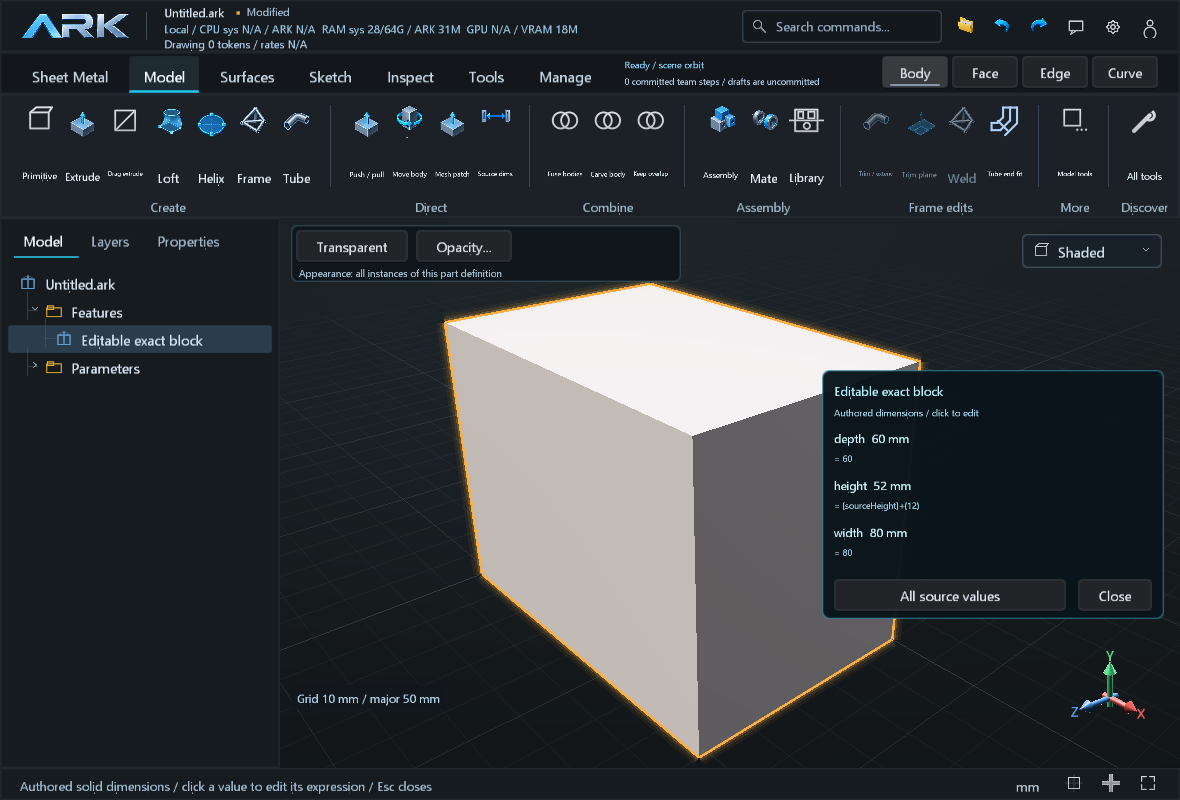
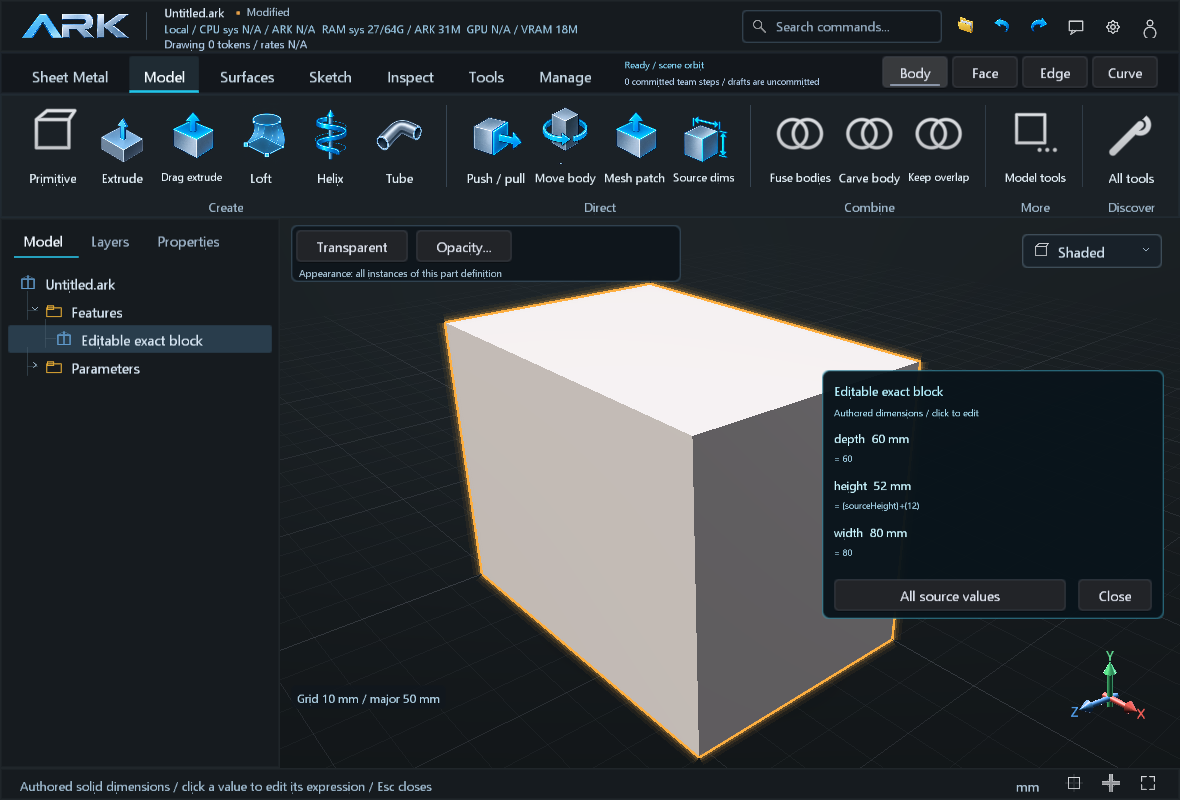
020B: resolve drag action identity and verify integrated authoring

diff --git a/src/view/viewer.cpp b/src/view/viewer.cpp
@@ -517,7 +517,7 @@ static arkjson::Value g_physicalSettings;
 static bool decodeCanvasFile(const std::wstring&,std::vector<unsigned char>&,unsigned&,unsigned&);
 #include "action_icons.inl"
 static int atlasIcon(int action){switch(action){
-    case 650:return 53;case 652:return 52;case 651:return 26;case 653:case 654:return 33;case 655:return 51;case 656:return 40;case 657:case 733:return 14;case 658:return 42;case 659:return 51;case 710:return 48;case 750:return 55;case 752:return 4;case 754:return 22;case 755:return 57;case 730:case 731:return 49;case 732:return 50;
+    case 650:return 53;case 652:case 687:return 52;case 651:return 26;case 653:case 654:return 33;case 655:return 51;case 656:return 40;case 657:case 733:return 14;case 658:return 42;case 659:return 51;case 710:return 48;case 750:return 55;case 752:return 4;case 754:return 22;case 755:return 57;case 730:case 731:return 49;case 732:return 50;
     case 570:case 584:return 33; // Existing edit-curve pencil.
     case 571:return 0;case 572:return 16;case 573:return 1;case 574:case 575:return 32;
     case 590:case 597:return 8;case 585:case 586:case 588:case 592:case 593:case 595:case 576:return 24;case 594:return 45;case 596:return 14;case 591:return 24;case 587:return 45;case 577:return 45;case 578:return 14;
@@ -4590,10 +4590,11 @@ static void drawFrame(HDC hdc){
     struct RibbonAction{const char* title;int id;};struct RibbonGroup{const char* title;std::vector<RibbonAction> actions;};std::vector<RibbonGroup> groups;
     if(g_toolModule==0)groups={{"Create",{{"Base",120},{"Flange",121},{"Hem",394},{"Stamp",397},{"Opening",124}}},{"Modify",{{"Edit",325},{"Jog",494},{"Sketch bend",495},{"Unfold",320},{"Refold",321}}},{"Pattern",{{"Pattern",468},{"Mirror",108}}},{"Output",{{"Export",213}}}};
     else if(g_toolModule==1&&g_directAuthoring.active)groups={{"Direct edit",{{"Push / pull",650},{"Move body",651},{"Mesh patch",652},{"Mesh vertex",653},{"Mesh edge",654},{"Value",655},{"Apply",656},{"Cancel",657}}},{"Source",{{"Dimensions",659},{"Sample mesh",754}}},{"Select",{{"Body",170},{"Face",171},{"Tangent patch",658}}},{"Combine",{{"Fuse bodies",8},{"Carve body",9},{"Keep overlap",10}}}};
-    else if(g_toolModule==1)groups={{"Create",{{"Primitive",100},{"Extrude",101},{"Drag extrude",660},{"Loft",76},{"Helix",750},{"Frame",210},{"Tube",26}}},{"Direct",{{"Push / pull",650},{"Move body",651},{"Mesh patch",652},{"Source dims",659}}},{"Combine",{{"Fuse bodies",8},{"Carve body",9},{"Keep overlap",10}}},{"Assembly",{{"Assembly",27},{"Mate",94},{"Library",484}}},{"Frame edits",{{"Trim / extend",496},{"Trim plane",497},{"Weld",498},{"Tube end fit",549}}},{"More",{{"Model tools",456}}}};
+    else if(g_toolModule==1&&W<1280)groups={{"Create",{{"Primitive",100},{"Extrude",101},{"Drag extrude",687},{"Loft",76},{"Helix",750},{"Tube",26}}},{"Direct",{{"Push / pull",650},{"Move body",651},{"Mesh patch",652},{"Source dims",659}}},{"Combine",{{"Fuse bodies",8},{"Carve body",9},{"Keep overlap",10}}},{"More",{{"Model tools",456}}}};
+    else if(g_toolModule==1)groups={{"Create",{{"Primitive",100},{"Extrude",101},{"Drag extrude",687},{"Loft",76},{"Helix",750},{"Frame",210},{"Tube",26}}},{"Direct",{{"Push / pull",650},{"Move body",651},{"Mesh patch",652},{"Source dims",659}}},{"Combine",{{"Fuse bodies",8},{"Carve body",9},{"Keep overlap",10}}},{"Assembly",{{"Assembly",27},{"Mate",94},{"Library",484}}},{"Frame edits",{{"Trim / extend",496},{"Trim plane",497},{"Weld",498},{"Tube end fit",549}}},{"More",{{"Model tools",456}}}};
     else if(g_toolModule==2&&g_sketchEditing.active)groups={{"Edit in view",{{"Exit sketch",611},{"Coordinates",70},{"Dimensions",591},{"Source params",577},{"Constraint",73},{"Normal view",71},{"Grid",579}}},{"Sketch",{{"Draw sketch",570},{"Undo",18},{"Redo",19}}}};
-    else if(g_toolModule==2&&g_sketchDrawing.active)groups={{"Draw in view",{{"Line",571},{"Polyline",572},{"Rectangle",573},{"Circle",574},{"Arc 3 pt",575},{"Dimensions",576},{"Grid",579},{"Exit sketch",578}}},{"Coordinate forms",{{"Line form",543},{"Arc form",544},{"Tangent arc",545},{"Rectangle",61},{"Circle",62},{"Spline",63}}},{"Modify",{{"Project 2D",536},{"Include 3D",537},{"Edit curve",70},{"Constraint",73},{"Plane",60},{"Source params",577}}},{"Build",{{"Extrude",65},{"Drag extrude",660},{"Cut",66}}}};
-    else if(g_toolModule==2)groups={{"Interactive",{{"Draw sketch",570},{"Edit sketch",610}}},{"Draw 2D",{{"Line",543},{"Arc 3 pt",544},{"Tangent arc",545},{"Rectangle",61},{"Circle",62},{"Spline",63}}},{"Draw 3D",{{"Arc 3D",547},{"Tangent 3D",548},{"3D curve",538}}},{"Modify",{{"Project 2D",536},{"Include 3D",537},{"Edit curve",70},{"Constraint",73},{"Plane",60}}},{"Build",{{"Extrude",65},{"Drag extrude",660},{"Cut",66}}}};
+    else if(g_toolModule==2&&g_sketchDrawing.active)groups={{"Draw in view",{{"Line",571},{"Polyline",572},{"Rectangle",573},{"Circle",574},{"Arc 3 pt",575},{"Dimensions",576},{"Grid",579},{"Exit sketch",578}}},{"Coordinate forms",{{"Line form",543},{"Arc form",544},{"Tangent arc",545},{"Rectangle",61},{"Circle",62},{"Spline",63}}},{"Modify",{{"Project 2D",536},{"Include 3D",537},{"Edit curve",70},{"Constraint",73},{"Plane",60},{"Source params",577}}},{"Build",{{"Extrude",65},{"Drag extrude",687},{"Cut",66}}}};
+    else if(g_toolModule==2)groups={{"Interactive",{{"Draw sketch",570},{"Edit sketch",610}}},{"Draw 2D",{{"Line",543},{"Arc 3 pt",544},{"Tangent arc",545},{"Rectangle",61},{"Circle",62},{"Spline",63}}},{"Draw 3D",{{"Arc 3D",547},{"Tangent 3D",548},{"3D curve",538}}},{"Modify",{{"Project 2D",536},{"Include 3D",537},{"Edit curve",70},{"Constraint",73},{"Plane",60}}},{"Build",{{"Extrude",65},{"Drag extrude",687},{"Cut",66}}}};
     else if(g_toolModule==3)groups={{"Measure",{{"Measure 2D",585},{"Measure 3D",586},{"Units",587}}},{"Selection",{{"Body",170},{"Face",171},{"Tangent faces",658},{"Edge",172},{"Curve",173}}},{"Inspect",{{"Collision",755},{"BOM",590},{"Properties",401},{"Mass / CG",188},{"Material",187}}},{"Display",{{"Graphics",56},{"Fit",20}}}};
     else if(g_toolModule==4)groups={{"Engineering",{{"Model tools",456},{"Physics",188},{"Loads",216},{"Electronics",211},{"Routing",212},{"Library",484}}},{"Agents",{{"Assistant",400},{"Connect",58},{"Providers",357},{"Tools",457}}}};
     else if(g_toolModule==6)groups={{"Create",{{"Extrude",151},{"Revolve",152},{"Sweep",150},{"Loft",76},{"Fill",77},{"NURBS",78}}},{"Modify",{{"Loft controls",752},{"Extract face",491},{"Trim plane",492},{"Offset",153},{"Glue surfaces",154},{"Thicken",79}}}};

diff --git a/docs/ROADMAP.md b/docs/ROADMAP.md
@@ -66,9 +66,9 @@ Goal: create and revise a complete product with clear, reliable interactions.
 
 | ID | Milestone | Status | Acceptance still governing the work |
 |---|---|---|---|
-| B.01 | Readable navigation and editing | Parcial | Stable cube/axes, free orbit, selection/Spotlight, shortcuts and DPI; no clipped controls at supported resolutions. Measurement and display units have [013B evidence](iterations/013B.md); BOM layout has [015B evidence](iterations/015B.md). [017B scoped evidence](iterations/017B.md). [018B editable authoring and coordination](iterations/018B.md). [019B native/mesh pointer selection, hover and visual authoring](iterations/019B.md). [Exact extrusion gestures and source dimensions](VIEWPORT_DIMENSIONS.md). |
-| B.02 | Everyday sketches and feature history | Parcial | Actionable constraint diagnostics, valid reorder, suppress/rollback and visible dependencies; rejection leaves the document intact. Arcs/snaps/expressions have scoped 005B/008D evidence. [017B scoped evidence](iterations/017B.md). [018B editable authoring and coordination](iterations/018B.md). [019B visual and parametric authoring](iterations/019B.md). [Exact extrusion gestures and source dimensions](VIEWPORT_DIMENSIONS.md). |
-| B.03 | Advanced solids and surfaces | Parcial | Difficult loft/sweep/guide/patch/trim/thicken corpus, measured continuity and explicit repair; no mesh fallback concealing exact failures. [017B scoped evidence](iterations/017B.md). [018B editable authoring and coordination](iterations/018B.md). [019B visual and parametric authoring](iterations/019B.md). |
+| B.01 | Readable navigation and editing | Parcial | Stable cube/axes, free orbit, selection/Spotlight, shortcuts and DPI; no clipped controls at supported resolutions. Measurement and display units have [013B evidence](iterations/013B.md); BOM layout has [015B evidence](iterations/015B.md). [017B scoped evidence](iterations/017B.md). [018B editable authoring and coordination](iterations/018B.md). [019B native/mesh pointer selection, hover and visual authoring](iterations/019B.md). [020B exact extrusion gestures and source dimensions](iterations/020B.md). |
+| B.02 | Everyday sketches and feature history | Parcial | Actionable constraint diagnostics, valid reorder, suppress/rollback and visible dependencies; rejection leaves the document intact. Arcs/snaps/expressions have scoped 005B/008D evidence. [017B scoped evidence](iterations/017B.md). [018B editable authoring and coordination](iterations/018B.md). [019B visual and parametric authoring](iterations/019B.md). [020B exact extrusion gestures and source dimensions](iterations/020B.md). |
+| B.03 | Advanced solids and surfaces | Parcial | Difficult loft/sweep/guide/patch/trim/thicken corpus, measured continuity and explicit repair; no mesh fallback concealing exact failures. [017B scoped evidence](iterations/017B.md). [018B editable authoring and coordination](iterations/018B.md). [019B visual and parametric authoring](iterations/019B.md). [020B exact sketch extrusion](iterations/020B.md). |
 | B.04 | Large, configurable assemblies | Parcial | Subassemblies, reused instances, configurations, external references and selective loading; editing one definition updates all occurrences. Supported mechanisms are locally scoped. |
 | B.05 | Technical drawings and exchange | Parcial | Associative views, sections, dimensions/tolerances and BOM; readback measures loss in STEP/IGES/DXF/native exchange. Local BOM/JSON is implemented; associative drawing work remains planned. [BOM contract](BOM.md) [017B scoped evidence](iterations/017B.md). [018B editable authoring and coordination](iterations/018B.md). |
 
@@ -80,7 +80,7 @@ Goal: connect design choices to exact geometry and measured process evidence.
 |---|---|---|---|
 | C.01 | Industrial sheet workflows | Parcial | Exact STEP plus explicit inputs yields a canonical artifact or typed rejection; agreed corpus, refold/flat and material traceability. Local sheet support exists; external exchange depends on E.01/E.02. |
 | C.02 | Complete weldments | Parcial | Multi-member trim/extend, joints, preparation, beads and coherent cutlists; drawings and lengths derive from exact results. Scope/candidates/replay have [008D evidence](iterations/008D.md). |
-| C.03 | Process-specific DFM | Parcial | Agent-accessible ruleset 1 screens laser thickness/blank, evaluated bend radii, FDM envelope/settings, CNC stock/cutter declarations and exact declared weld-bead throats. Evidence, assumptions and typed recommendations remain distinct from qualification. [DFM contract and limits](DFM.md) |
+| C.03 | Process-specific DFM | Parcial | Agent-accessible ruleset 1 screens laser thickness/blank, evaluated bend radii, FDM envelope/settings, CNC stock/cutter declarations and exact declared weld-bead throats. Evidence, assumptions and typed recommendations remain distinct from qualification. [020B scoped evidence](iterations/020B.md) and [DFM contract](DFM.md). |
 | C.04 | Structural checks and motion | Parcial | Units/load cases, analytical comparisons, mesh convergence and an audited external solver. Supported analytical/kinematic previews exist; FEA, contact and fatigue require separate validation. [019B static collision evidence](iterations/019B.md); response dynamics remain unqualified. |
 | C.05 | Physical reference pilots | Planeado | Fabricate a sheet enclosure, welded frame and small assembly; measure deviation, fit, cost and time; feed observations back into design revisions. |
 
@@ -93,7 +93,7 @@ Goal: reach valid, useful designs with explainable quality, time and total cost.
 | D.01 | Quality/time/cost benchmark | Parcial | At least 30 versioned briefs, three repeats per initial configuration and blind human evaluation; cost per accepted design includes failures and coordination. Harness exists; 008D pilots were 0/9 and 4/9, 009B closed at 1/9. These results prove no savings. |
 | D.02 | Responsible engineer and adaptive team | Parcial | Compare Single/Focused/Parallel; give specialists concrete useful assignments and choose concurrency by measured benefit. No default turn/token budgets. Context, completion and feedback have scoped iteration evidence. [017B scoped evidence](iterations/017B.md). [018B editable authoring and coordination](iterations/018B.md). [019B visual and parametric authoring](iterations/019B.md). |
 | D.03 | Isolated part workspaces | Planeado | Piece-level branches with ownership/datums; transactional integration identifies geometric/revision conflicts without silent rebase. |
-| D.04 | Multimodal feedback and correction | Parcial | Shared author/reviewer diagnostics, revision-bound previews, repeated-error detection and intent-preserving correction. Real images, failure replay and transport projection exist within [008D](iterations/008D.md), [010D](iterations/010D.md) and [012D](iterations/012D.md) scopes. [017B scoped evidence](iterations/017B.md). [018B editable authoring and coordination](iterations/018B.md). [019B visual and parametric authoring](iterations/019B.md). |
+| D.04 | Multimodal feedback and correction | Parcial | Shared author/reviewer diagnostics, revision-bound previews, repeated-error detection and intent-preserving correction. Real images, failure replay and transport projection exist within [008D](iterations/008D.md), [010D](iterations/010D.md) and [012D](iterations/012D.md) scopes. [017B scoped evidence](iterations/017B.md). [018B editable authoring and coordination](iterations/018B.md). [019B visual and parametric authoring](iterations/019B.md). [020B source-owned dimensional feedback and DFM rules](iterations/020B.md). |
 | D.05 | Concept alternatives and reusable knowledge | Parcial | Compare alternatives against requirements, mass, process/cost and human preference using validated examples. A proposal must not be reported as a created part. |
 
 ## E — Industrial ecosystem

diff --git a/docs/iterations/020B.md b/docs/iterations/020B.md
@@ -1,0 +1,53 @@
+# 020B — direct dimensions and agent DFM
+
+Runtime `0.9.21`, principal phase B. The iteration addresses A.01, B.01,
+B.02, B.03, C.03 and D.04. These milestones remain **Parcial** beyond the
+bounded local checks below. The `.ark` document version is unchanged.
+
+## Human authoring
+
+**Drag extrude** turns a saved closed sketch into an isolated exact native
+candidate. Pointer movement updates its depth, release publishes one validated
+feature, Tab accepts an expression, and Esc leaves the document intact. The
+original extrusion `cap.end` can be pushed or pulled while preserving its
+source sketch and starting cap. Double-clicking a visible solid opens its
+authored scalar dimensions and expressions; selecting a row edits the source.
+The agent's `doc_apply` path uses the same parameters and driving sketch
+dimensions with an observed `expected_revision`.
+
+The gesture and overlay contract, screenshots from synthetic fixtures and
+scoped checks are in [viewport dimensions](../VIEWPORT_DIMENSIONS.md) and the
+[dimension verification record](../verification-direct-dimensions.json).
+Supported source families, dependency behavior and multi-feature workflows
+remain narrower than the complete B.01/B.02/B.03 acceptance criteria.
+
+## Process screening for agents
+
+`manufacturing_inspect` now returns `components[].dfm` with versioned rules,
+exact producer evidence where available, explicit caller assumptions and typed
+recommendations for laser, bend, FDM, CNC and weld planning. The report does
+not mutate a document or certify manufacture. Agents can use a recommendation
+to propose a revision-checked design or process change. The [DFM contract](../DFM.md)
+and [DFM verification record](../verification-dfm-2026-10-13.json) distinguish
+caller arithmetic, exact geometry comparisons and unresolved process evidence.
+C.03 remains **Parcial** pending actual machine, slicer/CAM, material and pilot
+evidence.
+
+## Interface assets
+
+The built-in ImageGen tool produced a fourth transparent 4×4 icon atlas for
+authoring and process concepts. Studio uses the new icons for Skeleton,
+image reference intents, source dimensions, direct extrusion, patterns, helix
+and collision, with matching visuals beside the Assistant image actions.
+The exact prompt, source file and alpha/hash record are in
+[the atlas prompt](../design/ark-authoring-atlas.prompt.txt). Process icons
+whose controls do not yet exist remain reserved and are not advertised as
+implemented tools. B.01/D.04 visual scope requires actual rendered inspection.
+
+## Evidence boundary
+
+Local MSVC/OCCT, portable core, Studio interaction and release identity results
+are recorded in [the combined verification record](../verification-020B.json).
+The record distinguishes branch-local checks from the integrated 020B head.
+No manufacturing qualification, cost reduction, external product adapter,
+deployment or general human-design-quality result follows from this iteration.

diff --git a/docs/README.md b/docs/README.md
@@ -9,7 +9,9 @@ current release claim. [release.json](../release.json) owns application identity
 
 | Guide | Read it when |
 |---|---|
-| [019B draft controls](AUTHORING_019B_TESTING.md) | You are testing image intents, optional dimensions, direct edits, Skeleton code and collision feedback |
+| [020B direct dimensions](VIEWPORT_DIMENSIONS.md) | You are dragging an exact sketch extrusion or editing source dimensions on a solid |
+| [020B agent DFM](DFM.md) | You are screening a declared process and need versioned rule evidence and limitations |
+| [019B authoring controls](AUTHORING_019B_TESTING.md) | You are testing image intents, optional dimensions, direct edits, Skeleton code and collision feedback |
 | [018B draft controls](AUTHORING_018B_TESTING.md) | You are testing editable sketches, construction geometry and varying sweeps |
 | [Handbook](HANDBOOK.md) | You want a walkthrough of editing, assemblies, agents, BOM and export |
 | [Connecting agents and accounts](CONNECTING.md) | You need ChatGPT authorization, API configuration or an external MCP connection |

diff --git a/docs/AGENTS.md b/docs/AGENTS.md
@@ -1,5 +1,12 @@
 # ARK agent protocol
 
+020B adds source-owned solid dimensions and exact sketch extrusion by viewport
+drag. Read [the authoring contract](VIEWPORT_DIMENSIONS.md): double-click edits
+the authored expression, and agents use `doc_apply` at an observed
+`expected_revision` to add or alter driving dimensions. The DFM v1 rule report
+is available through `manufacturing_inspect` for explicitly declared process
+reviews; see [DFM rule scope](DFM.md). These checks do not qualify production.
+
 019B discovers **83 standalone tools**, including `skeleton_inspect`,
 `skeleton_compile` and `collision_inspect`. Source edits and indexed mesh edits
 require the current `expected_revision`. Inspect the [019B source and feedback

diff --git a/docs/VIEWPORT_DIMENSIONS.md b/docs/VIEWPORT_DIMENSIONS.md
@@ -11,6 +11,9 @@ saved closed sketch, and drag in the view along the cyan normal guide. The exact
 native extrusion is evaluated in an isolated candidate. Releasing saves a valid
 candidate as a `native_solid` extrusion. The profile and sketch plane remain its
 source. **Tab** accepts a depth expression; **Apply** saves it, and **Esc** cancels.
+At compact window widths, the Model ribbon keeps the main Create, Direct and
+Combine actions readable; **Model tools** retains the assembly, frame and other
+advanced commands.
 The current exact sketch-extrusion contract requires a positive depth. A reversed,
 zero, open or otherwise invalid extrusion is rejected with the source retained.
 
